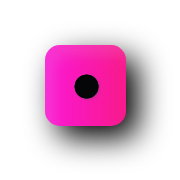
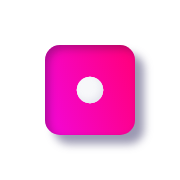
changed all close buttons from custom to preset. replaced placeholder graphics with presented. updated style colors. updated themes png's. updated graphic behavior with color theme.

Changed region(s): [[0.1944, 0.1944, 0.8889, 0.8889]]

diff --git a/widgets/KelVPN/style.css b/widgets/KelVPN/style.css
@@ -46,7 +46,7 @@
 
 .darkblue-dark
 {
-	color: #DDDDDD;
+	color: #FFFFFF;
 }
 
 /****************************************************
@@ -173,7 +173,7 @@
 
 .backgroundcolor-dark
 {
-	background-color: #292827;
+	background-color: #28264D;
 }
 
 .nobackground
@@ -295,6 +295,16 @@
 	min-height: 174pt;
 	max-width: 266pt;
 	max-height: 174pt;
+}
+
+.cwpb_close
+{
+	width: 28pt;
+	height: 28pt;
+	min-width: 28pt;
+	min-height: 28pt;
+	max-width: 28pt;
+	max-height: 28pt;
 }
 
 .cwpb_connection_status

diff --git a/forms/ui/helper/schedule/schedules.cpp b/forms/ui/helper/schedule/schedules.cpp
@@ -12,10 +12,10 @@ Schedules::Schedules() {}
 /// @param style Graphics styles.
 void Schedules::setStyle (const DapGraphicSceneStyle &style)
 {
-  mColorChartDownload = new QColor (style.value ("shChartDownload").value ("color").toString());
+  m_colorChartDownload = QColor (style.value ("shChartDownload").value ("color").toString());
   mDepthChartDownload = style.value ("shChartDownload").value ("depth").toReal();
   mBackGroundmColorChartDownload = new QColor (convertRGBA (style.value ("shChartDownload").value ("background-color").toString()));
-  mColorChartUpload = new QColor (style.value ("shChartUpload").value ("color").toString());
+  m_colorChartUpload = QColor (style.value ("shChartUpload").value ("color").toString());
   mDepthChartUpload = style.value ("shChartUpload").value ("depth").toReal();
   mBackGroundmColorChartUpload = new QColor (convertRGBA (style.value ("shChartUpload").value ("background-color").toString()));
   mColorGrid = new QColor (convertRGBA (style.value ("shGrid").value ("color").toString()));
@@ -46,6 +46,36 @@ int Schedules::getHeight()
   return m_sceneHeight + 3;
 }
 
+const QColor &Schedules::colorBackground() const
+{
+  return m_colorBackground;
+}
+
+void Schedules::setColorBackground(const QColor &newColorBackground)
+{
+  m_colorBackground = newColorBackground;
+}
+
+const QColor &Schedules::colorChartDownload() const
+{
+  return m_colorChartDownload;
+}
+
+void Schedules::setColorChartDownload (const QColor &newColorChartDownload)
+{
+  m_colorChartDownload = newColorChartDownload;
+}
+
+const QColor &Schedules::colorChartUpload() const
+{
+  return m_colorChartUpload;
+}
+
+void Schedules::setColorChartUpload (const QColor &newColorChartUpload)
+{
+  m_colorChartUpload = newColorChartUpload;
+}
+
 void Schedules::draw_backgraund (QGraphicsScene *scene)
 {
   QPainterPath path;
@@ -64,6 +94,7 @@ void Schedules::draw_backgraund (QGraphicsScene *scene)
       path.moveTo (0, i * m_sceneHeight / num_of_lines);
       path.lineTo (m_sceneWidth, i * m_sceneHeight / num_of_lines);
     }
+  scene->addRect (0, 0, m_sceneWidth, m_sceneHeight, QPen (Qt::transparent), QBrush (colorBackground()));
   scene->setBackgroundBrush (QBrush (Qt::transparent));
   scene->addPath (path, QPen (QColor (mColorGrid->rgba()), mDepthGrid));
 }
@@ -85,13 +116,13 @@ void Schedules::draw_chart (QGraphicsScene *scene)
 
   inp.showChart (
     scene,
-    QPen (QColor (mColorChartDownload->rgba64()), mDepthChartDownload),
+    QPen (QColor (m_colorChartDownload.rgba64()), mDepthChartDownload),
     QColor (mBackGroundmColorChartDownload->rgba64()),
     m_sceneWidth, m_sceneHeight, maxValue);
 
   out.showChart (
     scene,
-    QPen (QColor (mColorChartUpload->rgba()), mDepthChartUpload),
+    QPen (QColor (m_colorChartUpload.rgba()), mDepthChartUpload),
     QColor (mBackGroundmColorChartUpload->rgba64()),
     m_sceneWidth, m_sceneHeight, maxValue);
 }

diff --git a/forms/ui/statistics.cpp b/forms/ui/statistics.cpp
@@ -31,7 +31,8 @@ Statistics::Statistics (QWidget *parent) :
 
   /* setup scene */
   ui->graphicsView->setScene (m_scene);
-  ui->graphicsView->setBackgroundBrush(QBrush("#f7f8fa", Qt::SolidPattern));
+  ui->graphicsView->setForm (this);
+  //ui->graphicsView->setBackgroundBrush(QBrush("#f7f8fa", Qt::SolidPattern));
 
   /* setup uptime timer */
   m_uptimeUpdateTimer->setSingleShot (false);
@@ -42,6 +43,8 @@ Statistics::Statistics (QWidget *parent) :
   addItemGraphicSceneStyle ("shChartUpload",    "color:#2D1FD6;depth:1;background-color:rgba(3,167,198,0.00);");
   addItemGraphicSceneStyle ("shGrid",           "color:#F4F4F8;depth:0.1;");
   addItemGraphicSceneStyle ("graphicsLines",    "horizontalLines:19;verticalLines:8;");//"horizontalLines:19;verticalLines:8;sceneWidth:236px;sceneHeight:119px;");
+
+  ui->graphicsView->updateG();
 
   /* signals */
   connect (m_uptimeUpdateTimer, &QTimer::timeout,
@@ -278,6 +281,36 @@ void Statistics::resetGraph()
 {
   schedules.reset();
   updateGraph();
+}
+
+const QColor &Statistics::colorBackground() const
+{
+  return schedules.colorBackground();
+}
+
+void Statistics::setColorBackground(const QColor &newColorBackground)
+{
+  schedules.setColorBackground (newColorBackground);
+}
+
+const QColor &Statistics::colorChartDownload() const
+{
+  return schedules.colorChartDownload();
+}
+
+void Statistics::setColorChartDownload(const QColor &newColorChartDownload)
+{
+  schedules.setColorChartDownload (newColorChartDownload);
+}
+
+const QColor &Statistics::colorChartUpload() const
+{
+  return schedules.colorChartUpload();
+}
+
+void Statistics::setColorChartUpload(const QColor &newColorChartUpload)
+{
+  schedules.setColorChartUpload (newColorChartUpload);
 }
 
 void Statistics::_slotUpdateUptimeTime()

diff --git a/forms/ui/helper/schedule/schedules.h b/forms/ui/helper/schedule/schedules.h
@@ -14,13 +14,13 @@ class Schedules
 
 private:
     /// Download curve color.
-    QColor  *mColorChartDownload{nullptr};
+    QColor  m_colorChartDownload;
     /// Load curve line thickness.
     qreal   mDepthChartDownload{0};
     /// Fill infinite load integral.
     QColor  *mBackGroundmColorChartDownload{nullptr};
     /// Upload curve color.
-    QColor  *mColorChartUpload{nullptr};
+    QColor  m_colorChartUpload;
     /// Upload curve line thickness.
     qreal   mDepthChartUpload{0};
     /// Fill infinite upload integral.
@@ -29,7 +29,9 @@ private:
     QColor  *mColorGrid{nullptr};
     /// Thickness of grid lines.
     qreal   mDepthGrid{0};
-    
+    /// Background color
+    QColor  m_colorBackground;
+
     
     Schedule inp = Schedule();
     Schedule out = Schedule();
@@ -57,6 +59,13 @@ public:
     /// Set graphic styles.
     /// @param style Graphics styles.
     void setStyle(const DapGraphicSceneStyle &style);
+
+    const QColor &colorBackground() const;
+    void setColorBackground (const QColor &newColorBackground);
+    const QColor &colorChartDownload() const;
+    void setColorChartDownload (const QColor &newColorChartDownload);
+    const QColor &colorChartUpload() const;
+    void setColorChartUpload (const QColor &newColorChartUpload);
 };
 
 

diff --git a/forms/ui/statistics.h b/forms/ui/statistics.h
@@ -27,6 +27,15 @@ class Statistics : public BaseForm
   Q_OBJECT
 
   /****************************************//**
+   * @name PROPERTIES
+   *******************************************/
+  /// @{
+  Q_PROPERTY (QColor colorBackground    READ colorBackground    WRITE setColorBackground)
+  Q_PROPERTY (QColor colorChartDownload READ colorChartDownload WRITE setColorChartDownload)
+  Q_PROPERTY (QColor colorChartUpload   READ colorChartUpload   WRITE setColorChartUpload)
+  /// @}
+
+  /****************************************//**
    * @name VARS
    *******************************************/
   /// @{
@@ -96,6 +105,14 @@ public:
 
   void updateGraph();
   void resetGraph();
+
+  const QColor &colorBackground() const;
+  void setColorBackground(const QColor &newColorBackground);
+  const QColor &colorChartDownload() const;
+  void setColorChartDownload (const QColor &newColorChartDownload);
+  const QColor &colorChartUpload() const;
+  void setColorChartUpload (const QColor &newColorChartUpload);
+
 private:
   void _slotUpdateUptimeTime();
   /// @}

diff --git a/widgets/dapguigraphicsviewstylemanager.cpp b/widgets/dapguigraphicsviewstylemanager.cpp
@@ -45,10 +45,30 @@ void DapGuiGraphicsViewStyleManager::forcedGraphicsViewStyleUpdate()
   if (!gv || !scene)
     return;
 
+  /* color */
+  struct ColorStruct
+  {
+    const char
+      *background,
+      *download,
+      *upload;
+  };
+  static QMap<QString, ColorStruct> mapColor =
+  {
+    { "light", {"#f7f8fa", "#D61F5D", "#2D1FD6"} },
+    { "dark",  {"#28264d", "#FF22A2", "#9F83FF"} },
+  };
+  auto dir    = themeDir();
+  auto color  = mapColor.value (dir, mapColor.first());
+  gv->form()->setProperty ("colorBackground",     color.background);
+  gv->form()->setProperty ("colorChartDownload",  color.download);
+  gv->form()->setProperty ("colorChartUpload",    color.upload);
+
   auto size   = gv->size();
   auto rect   = scene->sceneRect();
   rect.setSize (size);
   scene->setSceneRect (rect);
+  scene->addRect (rect, QPen(Qt::transparent), QBrush (color.background));
 }
 
 /*-----------------------------------------*/

diff --git a/widgets/dapguipushbutton.cpp b/widgets/dapguipushbutton.cpp
@@ -28,6 +28,7 @@ static QMap<DapGuiPushButton::Style, _KgpbItem> s_presets =
   {DapGuiPushButton::Check,       {"://gfx/%1/check_btn_off.png",  "://gfx/%1/check_btn_on.png",          "://gfx/%1/check_btn_on.png",          "cwpb_checkbox"}},
   //{DapGuiPushButton::Radio,       {"://gfx/%1/radio_btn_off.png",  "://gfx/%1/radio_btn_on.png",          "://gfx/%1/radio_btn_on.png",         "cwpb_radio"}},
   {DapGuiPushButton::Switch,      {"://gfx/%1/switch_off.png",     "://gfx/%1/switch.png",                "://gfx/%1/switch.png",                "cwpb_switch"}},
+  {DapGuiPushButton::Close,       {"://gfx/%1/ic_close.png",       "://gfx/%1/ic_close_hover.png",        "://gfx/%1/ic_close_hover.png",        "cwpb_close"}},
 };
 
 /********************************************

diff --git a/widgets/dapguigraphicsview.h b/widgets/dapguigraphicsview.h
@@ -22,6 +22,7 @@ class DapGuiGraphicsView : public QGraphicsView
   Q_OBJECT
 
   DapGuiGraphicsViewStyleManager __kgsm = DapGuiGraphicsViewStyleManager (this);
+  QObject *m_form; ///< Statistics form. required to apply colors
 
   /****************************************//**
    * @name CONSTRUCT/DESTRUCT
@@ -29,6 +30,16 @@ class DapGuiGraphicsView : public QGraphicsView
   /// @{
 public:
   DapGuiGraphicsView (QWidget *parent = 0);
+  /// @}
+
+  /****************************************//**
+   * @name METHODS
+   *******************************************/
+  /// @{
+public:
+  QObject *form() const;
+  void setForm (QObject *a_form);
+  void updateG ();
   /// @}
 
   /****************************************//**

diff --git a/widgets/dapguigraphicsview.cpp b/widgets/dapguigraphicsview.cpp
@@ -5,8 +5,28 @@
  * CONSTRUCT/DESTRUCT
  *******************************************/
 
-DapGuiGraphicsView::DapGuiGraphicsView (QWidget *parent) :
-  QGraphicsView (parent)
+DapGuiGraphicsView::DapGuiGraphicsView (QWidget *parent)
+  : QGraphicsView (parent)
+  , m_form (nullptr)
+{
+  __kgsm.forcedGraphicsViewStyleUpdate();
+}
+
+/********************************************
+ * METHODS
+ *******************************************/
+
+QObject *DapGuiGraphicsView::form() const
+{
+  return m_form;
+}
+
+void DapGuiGraphicsView::setForm(QObject *a_form)
+{
+  m_form  = a_form;
+}
+
+void DapGuiGraphicsView::updateG()
 {
   __kgsm.forcedGraphicsViewStyleUpdate();
 }

diff --git a/widgets/dapguigraphicsviewstylemanager.h b/widgets/dapguigraphicsviewstylemanager.h
@@ -37,7 +37,7 @@ protected:
    * @name PROTECTED METHODS
    *******************************************/
   /// @{
-protected slots:
+public slots:
   void forcedGraphicsViewStyleUpdate();
   /// @}
 };

diff --git a/widgets/dapguipushbutton.h b/widgets/dapguipushbutton.h
@@ -46,6 +46,7 @@ public:
     Check,
     //Radio,
     Switch,
+    Close,
     Custom,
   };
   Q_ENUM (Style)
